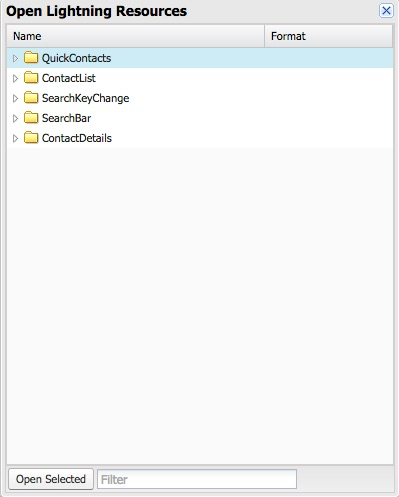
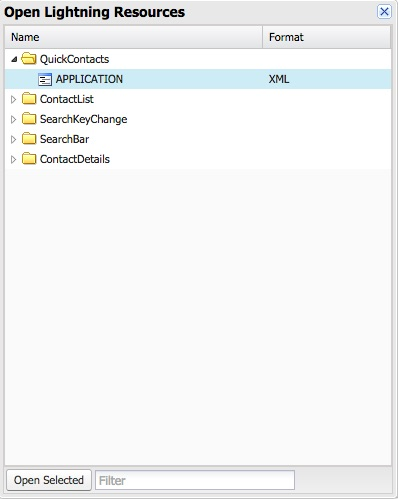
edits

Changed region(s): [[0.0, 0.0, 1.0, 1.0]]

diff --git a/_site/create-contactlist-component.html b/_site/create-contactlist-component.html
@@ -111,13 +111,13 @@
 
 <ul>
 <li>The controller assigned to the component (first line of code) refers to the <strong>server-side controller</strong> (ContactController) you created in module 3.</li>
-<li>The <strong>contacts</strong> attribute is defined to hold the list of Contact objects returned from the server</li>
-<li>The <strong>init</strong> handler is defined to execute some code when the component is initialized. That code (<strong>doInit</strong>) is defined in the component
-<strong>client-side controller</strong>. (you&#39;ll implement the controller in the next step)</li>
+<li>The <strong>contacts</strong> attribute is defined to hold the list of Contact objects returned from the server.</li>
+<li>The <strong>init</strong> handler is defined to execute some code when the component is initialized. That code (<strong>doInit</strong>) is defined in the component&#39;s
+<strong>client-side controller</strong> (you&#39;ll implement the controller in the next step).</li>
 <li><code>&lt;aura:iteration&gt;</code> is used to iterate through the list of contacts and create an <code>&lt;li&gt;</code> for each contact</li>
 <li>The <code>&lt;a href=&quot;{! &#39;#contact/&#39; + contact.Id }&quot;&gt;</code> anchor tag around the contact data is defined to set the page hashtag to <strong>#contact/</strong> followed by the contact id. In module 7, the ContactDetails component will use that hashtag to display details information every time the user clicks a new contact.</li>
 </ul></li>
-<li><p>Click <strong>File</strong> &gt; <strong>Save</strong> to save the file</p></li>
+<li><p>Click <strong>File</strong> &gt; <strong>Save</strong> to save the file.</p></li>
 </ol>
 
 <h2>Step 2: Implement the Controller</h2>
@@ -141,8 +141,8 @@
 
 <ul>
 <li>The controller has a single function called <strong>doInit</strong>. This is the function the component calls when it is initialized.</li>
-<li>The function first gets a reference to the <strong>findAll()</strong> method in the component&#39;s server-side controller (ContactController), and store it in the <strong>action</strong> variable.</li>
-<li>Since the call to the server findAll() method is asynchronous, it then registers a callback function that is executed when the call returns. In the callback function, it simply assigns the returned list of contacts to the component&#39;s <strong>contacts</strong> attribute.</li>
+<li>You first get a reference to the <strong>findAll()</strong> method in the component&#39;s server-side controller (ContactController), and store it in the <strong>action</strong> variable.</li>
+<li>Since the call to the server&#39;s findAll() method is asynchronous, you then register a callback function that is executed when the call returns. In the callback function, you simply assign the list of contacts to the component&#39;s <strong>contacts</strong> attribute.</li>
 <li>$A.enqueueAction(action) sends the request the server. More precisely, it adds the call to the queue of asynchronous server calls. That queue is an optimization feature of Lightning.</li>
 </ul></li>
 <li><p>Click <strong>File</strong> &gt; <strong>Save</strong> to save the file</p></li>
@@ -153,10 +153,10 @@
 <ol>
 <li><p>In the developer console, go back to the <strong>QuickContacts</strong> application.</p>
 
-<p>If you don&#39;t see the tab in the developer console, Select File &gt; Open Lightning Resources in the Developer Console menu, select QuickContacts in the dialog, and click the <strong>Open Selected</strong> button.</p>
+<p>If you don&#39;t see the tab in the developer console, select <strong>File</strong> &gt; <strong>Open Lightning Resources</strong> in the Developer Console menu, select <strong>QuickContacts</strong> &gt; <strong>APPLICATION</strong> in the dialog, and click the <strong>Open Selected</strong> button.</p>
 
 <p><img src="images/lightning-resources.jpg" alt=""></p></li>
-<li><p>Add the ContactList component in the first column of the application layout.</p>
+<li><p>Modify the <strong>container</strong> div as follows to add the ContactList component to the application layout.</p>
 <div class="highlight"><pre><code class="text language-text" data-lang="text">&lt;div class=&quot;container&quot;&gt;
     &lt;div class=&quot;row&quot;&gt;
         &lt;div class=&quot;col-sm-12&quot;&gt;

diff --git a/_site/setup-environment.html b/_site/setup-environment.html
@@ -76,7 +76,7 @@
 <ul>
 <li>Create a Namespace</li>
 <li>Enable Lightning Components in your Salesforce org</li>
-<li>Upload Static Resources for use in your Lightning application and components</li>
+<li>Upload Static Resources for use in your Lightning application</li>
 </ul>
 
 <h2>Step 1: Create a Namespace</h2>
@@ -105,7 +105,7 @@
 
 <h2>Step 3: Upload Bootstrap as a Static Resource</h2>
 
-<p>To help you make the application look good, you will use a version of Twitter bootstrap customized to match the <a href="http://sfdc-styleguide.herokuapp.com/">Salesforce1 guideline</a>.</p>
+<p>To help you make the application look good, you will use a version of Twitter Bootstrap customized to match the <a href="http://sfdc-styleguide.herokuapp.com/">Salesforce1 guideline</a>.</p>
 
 <ol>
 <li><p>Download and unzip the Salesforce Foundation Bootstrap <a href="http://developer.salesforcefoundation.org/bootstrap-sf1/">here</a></p></li>

diff --git a/_site/create-lightning-application.html b/_site/create-lightning-application.html
@@ -74,7 +74,7 @@
 <h2>What you will learn</h2>
 
 <ul>
-<li>Create a Lightning application in the Developer Console</li>
+<li>Create a Lightning Application in the Developer Console</li>
 <li>Use Static Resources in a Lightning Application</li>
 <li>Preview your Lightning Application in the browser</li>
 </ul>
@@ -111,7 +111,7 @@
 <ul>
 <li>The <strong>link</strong> tag references the bootstrap style sheet uploaded as a static resource in <a href="setup-environment.html">module 2</a></li>
 <li>The application uses Bootstrap to implement a basic layout for the application</li>
-<li>Lightning applications can include Lightning components or regular HTML markup</li>
+<li>Lightning applications can include Lightning components and regular HTML markup</li>
 </ul></li>
 <li><p>Click <strong>File</strong> &gt; <strong>Save</strong> to save the file</p></li>
 <li><p>Click <strong>Preview</strong> (upper right corner)</p>

diff --git a/create-contactlist-component.md b/create-contactlist-component.md
@@ -42,14 +42,14 @@ In this module, you create a Lightning Component responsible for displaying the 
 
     ### Code Highlights:
     - The controller assigned to the component (first line of code) refers to the **server-side controller** (ContactController) you created in module 3.
-    - The **contacts** attribute is defined to hold the list of Contact objects returned from the server
-    - The **init** handler is defined to execute some code when the component is initialized. That code (**doInit**) is defined in the component
-**client-side controller**. (you'll implement the controller in the next step)
+    - The **contacts** attribute is defined to hold the list of Contact objects returned from the server.
+    - The **init** handler is defined to execute some code when the component is initialized. That code (**doInit**) is defined in the component's
+**client-side controller** (you'll implement the controller in the next step).
     - ```<aura:iteration>``` is used to iterate through the list of contacts and create an ```<li>``` for each contact
     - The ```<a href="{! '#contact/' + contact.Id }">``` anchor tag around the contact data is defined to set the page hashtag to **#contact/** followed by the contact id. In module 7, the ContactDetails component will use that hashtag to display details information every time the user clicks a new contact.
 
 
-1. Click **File** > **Save** to save the file
+1. Click **File** > **Save** to save the file.
 
 
 ## Step 2: Implement the Controller
@@ -74,8 +74,8 @@ In this module, you create a Lightning Component responsible for displaying the 
 
     ### Code Highlights:
     - The controller has a single function called **doInit**. This is the function the component calls when it is initialized.
-    - The function first gets a reference to the **findAll()** method in the component's server-side controller (ContactController), and store it in the **action** variable.
-    - Since the call to the server findAll() method is asynchronous, it then registers a callback function that is executed when the call returns. In the callback function, it simply assigns the returned list of contacts to the component's **contacts** attribute.
+    - You first get a reference to the **findAll()** method in the component's server-side controller (ContactController), and store it in the **action** variable.
+    - Since the call to the server's findAll() method is asynchronous, you then register a callback function that is executed when the call returns. In the callback function, you simply assign the list of contacts to the component's **contacts** attribute.
     - $A.enqueueAction(action) sends the request the server. More precisely, it adds the call to the queue of asynchronous server calls. That queue is an optimization feature of Lightning.
 
 1. Click **File** > **Save** to save the file
@@ -85,12 +85,12 @@ In this module, you create a Lightning Component responsible for displaying the 
 
 1. In the developer console, go back to the **QuickContacts** application.
 
-    If you don't see the tab in the developer console, Select File > Open Lightning Resources in the Developer Console menu, select QuickContacts in the dialog, and click the **Open Selected** button.
+    If you don't see the tab in the developer console, select **File** > **Open Lightning Resources** in the Developer Console menu, select **QuickContacts** > **APPLICATION** in the dialog, and click the **Open Selected** button.
 
     ![](images/lightning-resources.jpg)
 
 
-1. Add the ContactList component in the first column of the application layout.
+1. Modify the **container** div as follows to add the ContactList component to the application layout.
 
     ```
     <div class="container">

diff --git a/create-lightning-application.md b/create-lightning-application.md
@@ -6,7 +6,7 @@ title: Module 4&#58; Creating the Lightning Application
 In this module, you create the QuickContacts Lightning Application and you use Bootstrap to define a basic layout for the application.
 
 ## What you will learn
-- Create a Lightning application in the Developer Console
+- Create a Lightning Application in the Developer Console
 - Use Static Resources in a Lightning Application
 - Preview your Lightning Application in the browser
 
@@ -44,7 +44,7 @@ In this module, you create the QuickContacts Lightning Application and you use B
     ### Code Highlights:
     - The **link** tag references the bootstrap style sheet uploaded as a static resource in [module 2](setup-environment.html)
     - The application uses Bootstrap to implement a basic layout for the application
-    - Lightning applications can include Lightning components or regular HTML markup
+    - Lightning applications can include Lightning components and regular HTML markup
 
 1. Click **File** > **Save** to save the file
 

diff --git a/setup-environment.md b/setup-environment.md
@@ -8,7 +8,7 @@ In this module, you set up your environment to enable Lightning development.
 ## What you will learn
 - Create a Namespace
 - Enable Lightning Components in your Salesforce org
-- Upload Static Resources for use in your Lightning application and components
+- Upload Static Resources for use in your Lightning application
 
 
 ## Step 1: Create a Namespace
@@ -43,7 +43,7 @@ A namespace is globally unique across all Salesforce organizations. Namespaces a
 
 ## Step 3: Upload Bootstrap as a Static Resource
 
-To help you make the application look good, you will use a version of Twitter bootstrap customized to match the [Salesforce1 guideline](http://sfdc-styleguide.herokuapp.com/).
+To help you make the application look good, you will use a version of Twitter Bootstrap customized to match the [Salesforce1 guideline](http://sfdc-styleguide.herokuapp.com/).
 
 1. Download and unzip the Salesforce Foundation Bootstrap [here](http://developer.salesforcefoundation.org/bootstrap-sf1/)
 
